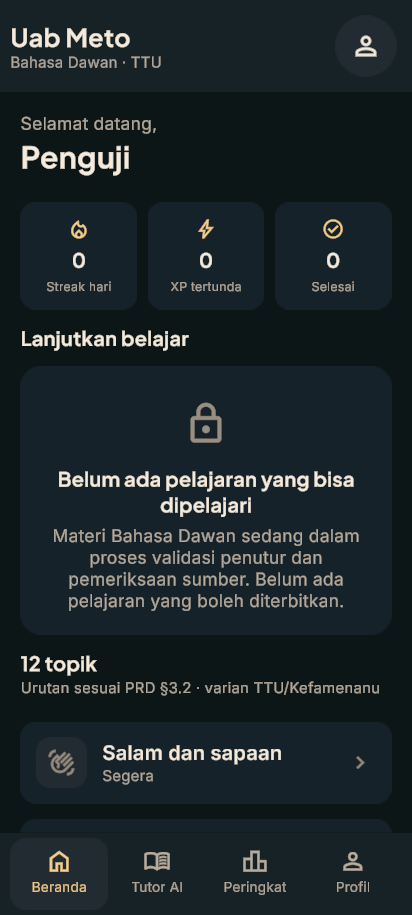
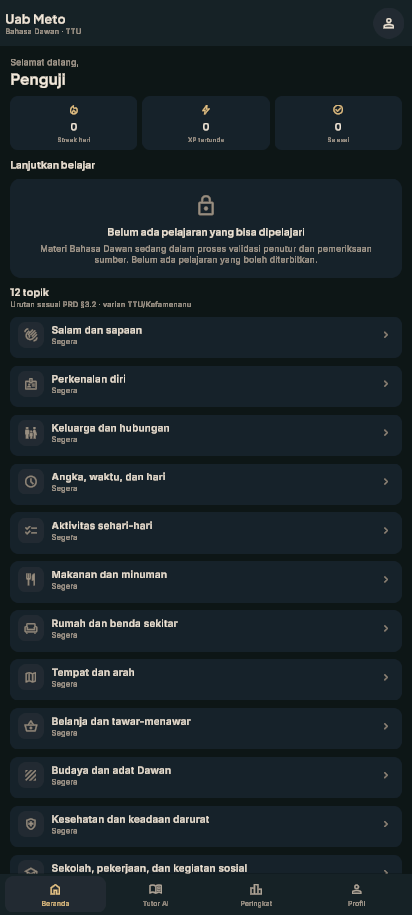
Perbarui laporan gate dan bukti layout F1

diff --git a/docs/testing/f1-gate-result.md b/docs/testing/f1-gate-result.md
@@ -1,6 +1,6 @@
 # Laporan Gate F1
 
-Tanggal: 2026-11-03 (WITA); diperbarui 2026-11-05 (WITA)
+Tanggal: 2026-11-03 (WITA); diperbarui 2026-11-06 (WITA)
 Lingkungan: Windows, Unity `6000.6.0f1`, Android build-tools `36.1.0`.
 Status gate: **TIDAK LULUS.** Build, tes UI, dan verifikasi dasar perangkat
 fisik lulus; syarat konten tervalidasi, alur pelajaran rilis, aksesibilitas
@@ -12,6 +12,13 @@ mode pratinjau berlabel "Pratinjau — belum divalidasi" yang tidak mencatat
 progres atau XP. Mode ini tidak mengubah status gate: belum ada reviewer
 independen, audio, atau consent.
 
+Pembaruan 2026-11-06: stabilisasi layout F1. Tinggi kartu sekarang dihitung
+dari isi (bukan angka tetap), semua daftar gulir kembali ke atas saat layar
+dibangun ulang, dan kanvas memakai acuan responsif portrait 360×640 /
+landscape 640×360. Lima tes PlayMode baru mengunci perilaku ini. Build rilis
+dan pratinjau dibangun ulang; status gate tetap **TIDAK LULUS** karena
+blocker konten, audio, aksesibilitas, dan perangkat tidak berubah.
+
 ## 1. Ringkasan keputusan
 
 | Area | Hasil |
@@ -19,7 +26,7 @@ independen, audio, atau consent.
 | Build Android F1 | **PASS** — `Builds/Android/uabmeto-f1.apk` |
 | Build pratinjau | **PASS** — `Builds/Android/uabmeto-f1-preview.apk` (demo, memuat `in_review`) |
 | Tes EditMode | **PASS** — 62 lulus, 0 gagal, 0 dilewati |
-| Tes PlayMode | **PASS** — 14 lulus, 0 gagal, 0 dilewati |
+| Tes PlayMode | **PASS** — 19 lulus, 0 gagal, 0 dilewati |
 | Validator konten | **PASS** — 36/36 tes; CLI 0 error, 4 warning audio |
 | Kontras F1 | **PASS** — 12/12 pasangan ≥ 4.5:1 |
 | Target sentuh F1 | **PASS (UI F1)** — 4/4 tes aksesibilitas/layout |
@@ -33,11 +40,14 @@ independen, audio, atau consent.
 ### 2.1 Build rilis
 
 - Path: `D:\01_Uab_Meto\Builds\Android\uabmeto-f1.apk`
-- Ukuran: **28.293.448 byte**
[1 lines of base64/hex data omitted]
-- Hasil: `Succeeded`, 0 error, 0 warning pada log build inkremental
-  terakhir (`Builds/logs/unity-build-release5.log`)
-- Durasi build: 51,7 detik (inkremental)
+- Ukuran: **28.294.252 byte**
[1 lines of base64/hex data omitted]
+- Hasil: `Succeeded`, 0 error, 1 warning
+  (`Builds/logs/unity-build-release-layout.log`)
+- Warning tunggal: `TextMeshPro/Mobile/Distance Field` memakai
+  `#pragma enable_d3d11_debug_symbols` yang sudah deprecated. Ini warning
+  shader TMP, bukan error dan bukan konten.
+- Durasi build: 61,4 detik (inkremental)
 - Paket: `id.uabmeto.app`
 - Versi: `0.1.0` (`versionCode 1`)
 - `minSdkVersion`: 26
@@ -47,15 +57,15 @@ independen, audio, atau consent.
 - Ringkasan mesin: `Builds/Android/build-summary.json`
 
 Catatan warning: build penuh sebelumnya mencatat 3 warning TMP/IL2CPP.
-Build inkremental terakhir mencatat 0 warning karena berkas TMP yang sama
+Build inkremental 2026-11-06 mencatat 1 warning shader TMP karena berkas lain
 tidak dikompilasi ulang. Karena itu F1-25 tetap **PARTIAL** sampai build
 bersih dari nol diulang tanpa cache.
 
 ### 2.2 Build pratinjau (demo, bukan rilis)
 
 - Path: `D:\01_Uab_Meto\Builds\Android\uabmeto-f1-preview.apk`
-- Ukuran: **28.300.054 byte**
[1 lines of base64/hex data omitted]
+- Ukuran: **28.300.114 byte**
[1 lines of base64/hex data omitted]
 - Hasil: `Succeeded`, 0 error, 4 warning
 - Build ini memuat tiga pelajaran `in_review` di `Resources/Content/preview`.
 - **Jangan** disebut build rilis dan jangan dipakai untuk gate F1.
@@ -118,7 +128,7 @@ Hasil: **62/62 lulus, 0 gagal, 0 dilewati.** Cakupan:
 
 ### 3.2 PlayMode
 
-Hasil: **14/14 lulus, 0 gagal, 0 dilewati.**
+Hasil: **19/19 lulus, 0 gagal, 0 dilewati.**
 
 - `Shell_HasFourTabsAndTwelveTopics`
 - `FixtureFlow_EnqueuesCompletion`
@@ -132,12 +142,23 @@ Hasil: **14/14 lulus, 0 gagal, 0 dilewati.**
 - `AccessibilityTests.NicknameDialog_FitsCardAndHasCancel`
 - `AccessibilityTests.LessonAndModals_TargetsAreAtLeast48Dp`
 - 5 tes tangkapan layar (`ScreenshotTests`)
+- `LayoutTests.Home_ScrollStartsAtTop` — Beranda kembali ke posisi atas
+  setelah dibangun ulang
+- `LayoutTests.Lesson_ScrollStartsAtTopOnEveryStep` — pembuka dan materi
+  selalu dibuka dari atas
+- `LayoutTests.HomeAndLesson_TextFitsInsideItsRect` — tidak ada teks
+  multi-baris yang terpotong di Beranda atau materi
+- `LayoutTests.VocabularyCards_GrowWithTheirContent` — tinggi kartu kosakata
+  mengikuti preferred height isinya
+- `LayoutTests.NicknameModal_FitsReferenceViewport` — dialog nama muat di
+  acuan 360×640 dan mendapat tinggi dari isinya
 
 PlayMode berjalan di Editor, bukan perangkat. Tes ini tidak membuktikan
 TalkBack, keyboard Android, lifecycle, atau rotasi perangkat. Percobaan
 pertama dengan D3D12 berhenti karena `d3d12: Unrecoverable GPU device
 error` sebelum hasil tes ditulis; percobaan ulang dengan `-force-d3d11`
-menghasilkan 14/14 lulus. Log: `Builds/logs/unity-playmode-final.log`.
+menghasilkan 19/19 lulus. Log: `Builds/logs/unity-playmode-layout4.log`
+(hasil: `Builds/logs/playmode-layout4-results.xml`).
 
 ### 3.3 Validator dan kontras
 
@@ -228,9 +249,16 @@ bukan dari mockup Stitch. Salinan bukti ada di
 | `f1-after-completion-360x640.png` | Banner antrean setelah simpan |
 | `f1-lesson-intro-915x412.png` | Pembuka pelajaran landscape |
 
+Seluruh tangkapan Editor di atas diambil ulang pada 2026-11-06 setelah
+stabilisasi layout. Tangkapan landscape 915×412 memakai acuan 640×360 dan
+masih berupa satu kolom yang dapat digulir, **bukan** tata letak dua kolom
+40/60 di `docs/design/screens.md` §12. Kekurangan itu dicatat pada F1-10.
+
 Tangkapan layar perangkat fisik ada di
 `docs/testing/evidence/f1-device/` dan dirinci di
-`docs/testing/f1-device-evidence.md`.
+`docs/testing/f1-device-evidence.md`. Sepuluh berkas `f1-layout-*-oppo.png`
+berasal dari verifikasi layout pratinjau di OPPO `CPH1803`; bukti ini
+menunjukkan tampilan demo, **bukan** bukti gate alur pelajaran rilis.
 
 ## 5. Uji perangkat fisik
 
@@ -269,6 +297,34 @@ dan tombol back. Tiga bug layout/input ditemukan dan diperbaiki:
    sehingga isi bertumpuk. Kartu modal sekarang memakai `VerticalLayoutGroup`
    + fitter; tombol `Batal` ditambahkan dan diuji.
 
+### 5.1 Verifikasi layout pratinjau di OPPO (demo)
+
+Perangkat: OPPO `CPH1803`, Android 8.1 (API 27), `arm64-v8a`, layar
+720×1520, densitas 320 dpi. APK yang dipasang adalah
+`uabmeto-f1-preview.apk` (SHA-256 `491B5F...71FE`), sehingga verifikasi ini
+memakai materi `in_review` dan **bukan** bukti gate pelajaran rilis.
+
+Stabilisasi layout 2026-11-06 menambahkan empat perbaikan yang diperiksa di
+perangkat ini:
+
+1. Tinggi kartu kosakata, contoh, dialog, opsi, umpan balik, ringkasan,
+   banner offline, kartu Beranda/Profil, dan modal dihitung dari isi;
+   tidak ada lagi tinggi tetap yang memotong teks.
+2. Semua daftar gulir kembali ke posisi atas setelah pindah tab, membuka
+   pelajaran, atau berpindah langkah.
+3. `DestroyChildren` menonaktifkan objek lama sebelum `Destroy`, dan
+   `RebuildLayout` memakai tiga lintasan agar tidak ada layout basi satu
+   frame.
+4. Acuan kanvas responsif: portrait 360×640, landscape 640×360, keduanya
+   dikunci ke lebar.
+
+Layar yang diperiksa dengan tangkapan layar: Beranda (banner, statistik,
+kartu pratinjau), modal pratinjau, pembuka pelajaran, materi bagian atas,
+dialog bagian bawah, latihan, umpan balik, dan ringkasan. Gulir Beranda ke
+bawah lalu pindah ke Profil dan kembali ke Beranda juga diperiksa; daftar
+kembali ke atas. Bukti: `docs/testing/evidence/f1-device/f1-layout-*-oppo.png`
+(10 berkas).
+
 Garis putih melengkung di tepi kiri bukan bagian aplikasi: garis yang sama
 terlihat di home screen sistem (panel tepi OEM). Ini tidak dihitung sebagai
 temuan UI aplikasi.
@@ -286,7 +342,7 @@ temuan UI aplikasi.
 | F1-07 outbox | PASS | `OutboxStore` + PlayMode; belum sinkron server |
 | F1-08 banner | PARTIAL | Antrean nyata; banner offline belum diuji mock |
 | F1-09 panel debug | PASS | Tidak ada panel; pemindaian APK 0 |
-| F1-10 portrait/landscape | PASS (Editor) | 360×640, 412×915, 915×412; landscape perangkat BLOCKED |
+| F1-10 portrait/landscape | PASS (Editor) | Acuan responsif 360×640 / 640×360; 360×640, 412×915, 915×412 diuji. Landscape masih satu kolom, belum tata letak dua kolom 40/60 §12; landscape perangkat BLOCKED |
 | F1-11 pelajaran validated | **BLOCKED** | 3 pelajaran `in_review`; belum ada berkas `validated` |
 | F1-12 sumber | **PARTIAL** | `SRC-SPK-001` tercatat, tetapi berasal dari self-review |
 | F1-13 reviewer | **BLOCKED** | Hanya `SPK-001 (self-review)`; belum ada reviewer independen |
@@ -301,8 +357,8 @@ temuan UI aplikasi.
 | F1-22 status ikon+teks | PASS (F1) | Status topik/audio punya ikon + teks |
 | F1-23 build IL2CPP ARM64 | PASS | Log build + `aapt list` |
 | F1-24 APK di perangkat | PASS | Terpasang dan dibuka di perangkat fisik |
-| F1-25 tanpa warning | PARTIAL | Build inkremental 0 warning; build penuh terakhir masih 3 warning TMP/IL2CPP |
-| F1-26 ukuran APK | PASS | 28.293.448 byte |
+| F1-25 tanpa warning | PARTIAL | Build inkremental 2026-11-06 mencatat 1 warning shader TMP; build penuh terakhir masih 3 warning TMP/IL2CPP |
+| F1-26 ukuran APK | PASS | 28.294.252 byte |
 | F1-27 kredensial | PASS (pemindaian terbatas) | Pola umum 0; bukan audit menyeluruh |
 
 ## 7. Keputusan yang dikunci
@@ -326,6 +382,8 @@ temuan UI aplikasi.
 - Sinkronisasi Firebase/D1 dan idempotensi lintas sistem nyata.
 - Tutor AI, lima jenis latihan lain, ujian akhir, auth, dan hapus akun.
 - Audit TalkBack, uji font sistem 1.3×/2.0×, dan uji landscape perangkat.
+- Tata letak landscape dua kolom 40/60 sesuai `docs/design/screens.md` §12;
+  F1 masih memakai satu kolom yang dapat digulir.
 - Build rilis tanpa warning dan signing key rilis.
 
 ## 9. Risiko dan tindakan berikutnya

diff --git a/docs/testing/f1-device-evidence.md b/docs/testing/f1-device-evidence.md
@@ -1,6 +1,6 @@
 # Bukti Uji Perangkat F1
 
-Tanggal: 2026-11-03 (WITA)
+Tanggal: 2026-11-03 (WITA); diperbarui 2026-11-06 (WITA)
 Status: **PARTIAL** — instalasi, peluncuran, UI dasar, dan tombol back lulus;
 alur pelajaran rilis, offline, landscape, dan skala font belum.
 
@@ -57,6 +57,32 @@ Semua tangkapan layar berasal dari perangkat, bukan mockup:
 
 Catatan: salinan ini di-commit sebagai bukti; berkas asli dari perangkat ada
 di `Builds/device/` yang diabaikan Git. Tangkapan layar bukan aset rilis.
+
+### 3.1 Verifikasi layout pratinjau di OPPO (demo)
+
+Tanggal: 2026-11-06. Perangkat: OPPO `CPH1803`, Android 8.1 (API 27),
+`arm64-v8a`, layar 720×1520, densitas 320 dpi. APK: `uabmeto-f1-preview.apk`
[1 lines of base64/hex data omitted]
+
+Verifikasi ini memakai materi `in_review` di mode pratinjau berlabel. Hasilnya
+menunjukkan tampilan demo, **bukan** bukti gate alur pelajaran rilis.
+
+| Berkas | Isi |
+|---|---|
+| `f1-layout-home-oppo.png` | Beranda: banner, statistik, kartu pratinjau |
+| `f1-layout-preview-modal-oppo.png` | Modal konfirmasi pratinjau |
+| `f1-layout-lesson-intro-oppo.png` | Pembuka pelajaran pratinjau |
+| `f1-layout-lesson-material-oppo.png` | Materi bagian atas |
+| `f1-layout-material-bottom-oppo.png` | Dialog bagian bawah |
+| `f1-layout-exercise-oppo.png` | Latihan pilihan ganda |
+| `f1-layout-feedback-oppo.png` | Umpan balik |
+| `f1-layout-summary-oppo.png` | Ringkasan pratinjau |
+| `f1-layout-home-scrolled-oppo.png` | Beranda setelah digulir ke bawah |
+| `f1-layout-home-reset-oppo.png` | Beranda kembali ke atas setelah pindah tab |
+
+Yang diperiksa: kartu tumbuh mengikuti isi, teks tidak terpotong, semua
+daftar gulir mulai dari atas, dan posisi gulir Beranda kembali ke atas
+setelah Beranda → Profil → Beranda.
 
 ## 4. Temuan dan perbaikan
 
